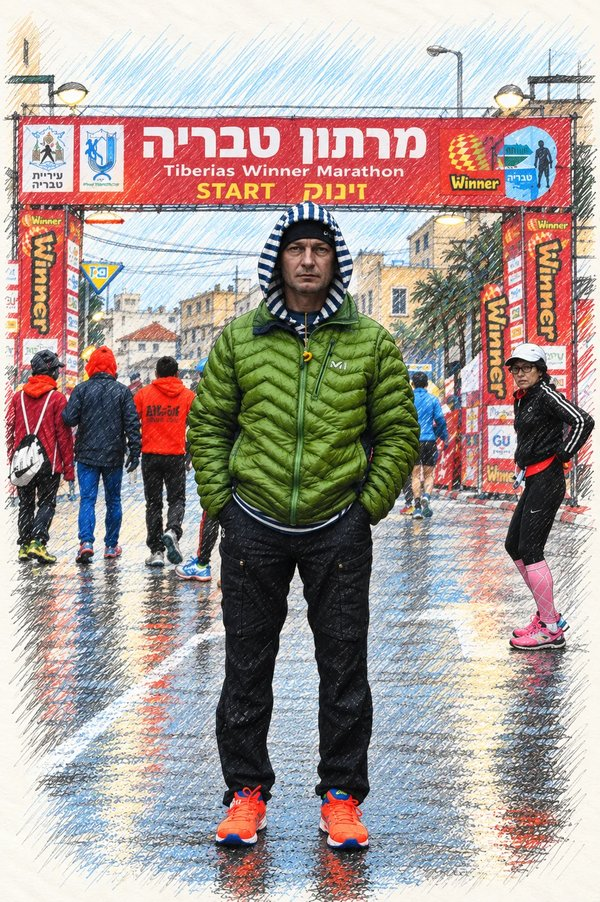
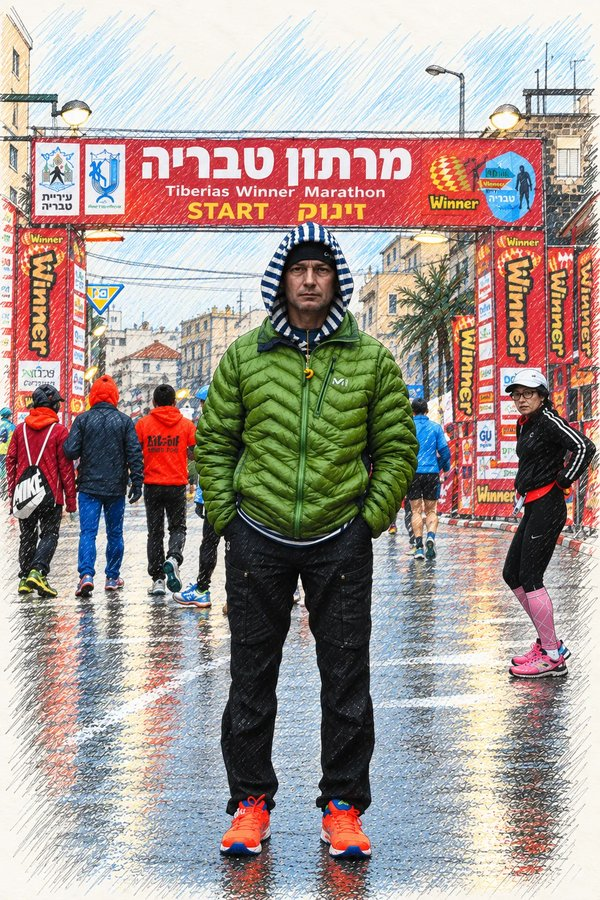
Иллюстрация Тверии: новая версия, 1200×1800 и 600 px
Claude-Session: https://claude.ai/code/session_017Vh8WSDHrDE5J2gaAnBWqh

diff --git a/book-site/index.html b/book-site/index.html
@@ -81,9 +81,9 @@
     <div class="split">
       <div class="start__big">
         <img class="start__img" src="assets/img/tiberias-2015.jpg"
-             srcset="assets/img/tiberias-2015-600.jpg 600w, assets/img/tiberias-2015.jpg 1023w"
+             srcset="assets/img/tiberias-2015-600.jpg 600w, assets/img/tiberias-2015.jpg 1200w"
              sizes="(max-width: 700px) 100vw, 33vw"
-             width="1023" height="1538" loading="lazy"
+             width="1200" height="1800" loading="lazy"
              alt="Юрий Строфилов у арки старта марафона в Тверии, 9 января 2015 года, иллюстрация">
         <div class="start__num">3:09</div>
         <p class="start__place">Тверия, 9 января 2015, перед стартом</p>
